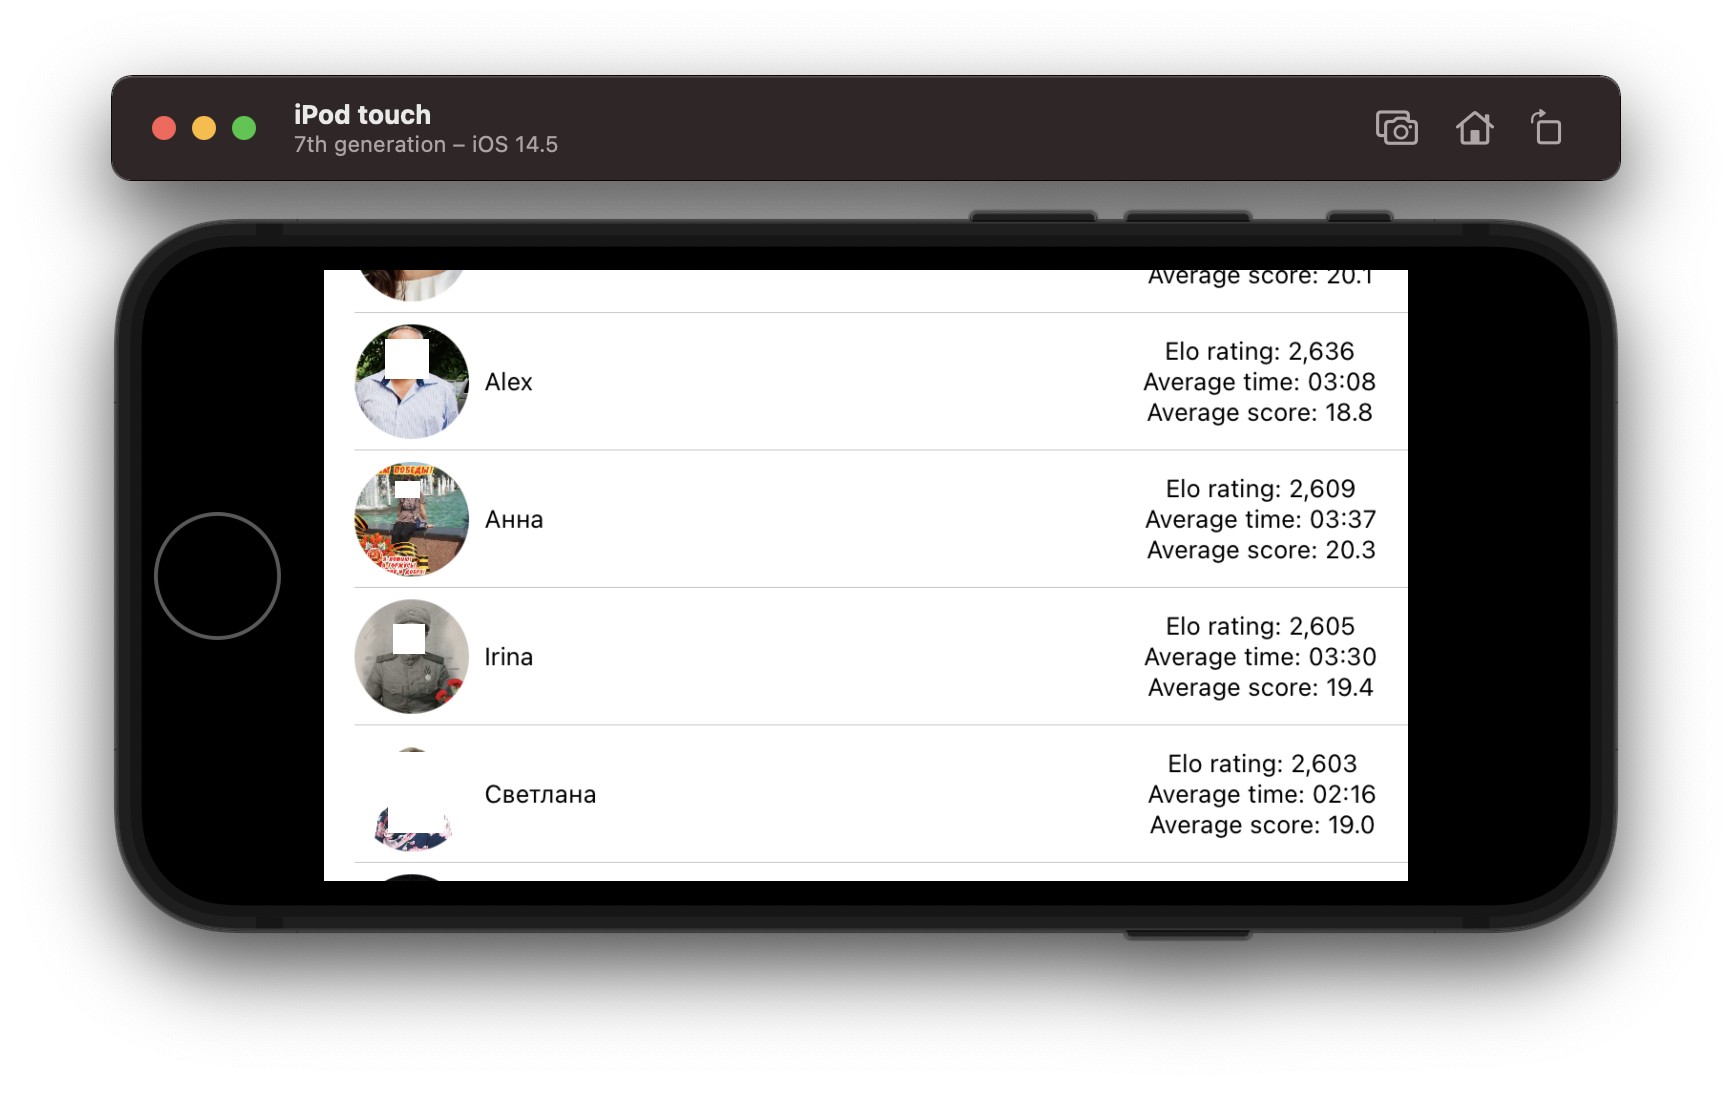
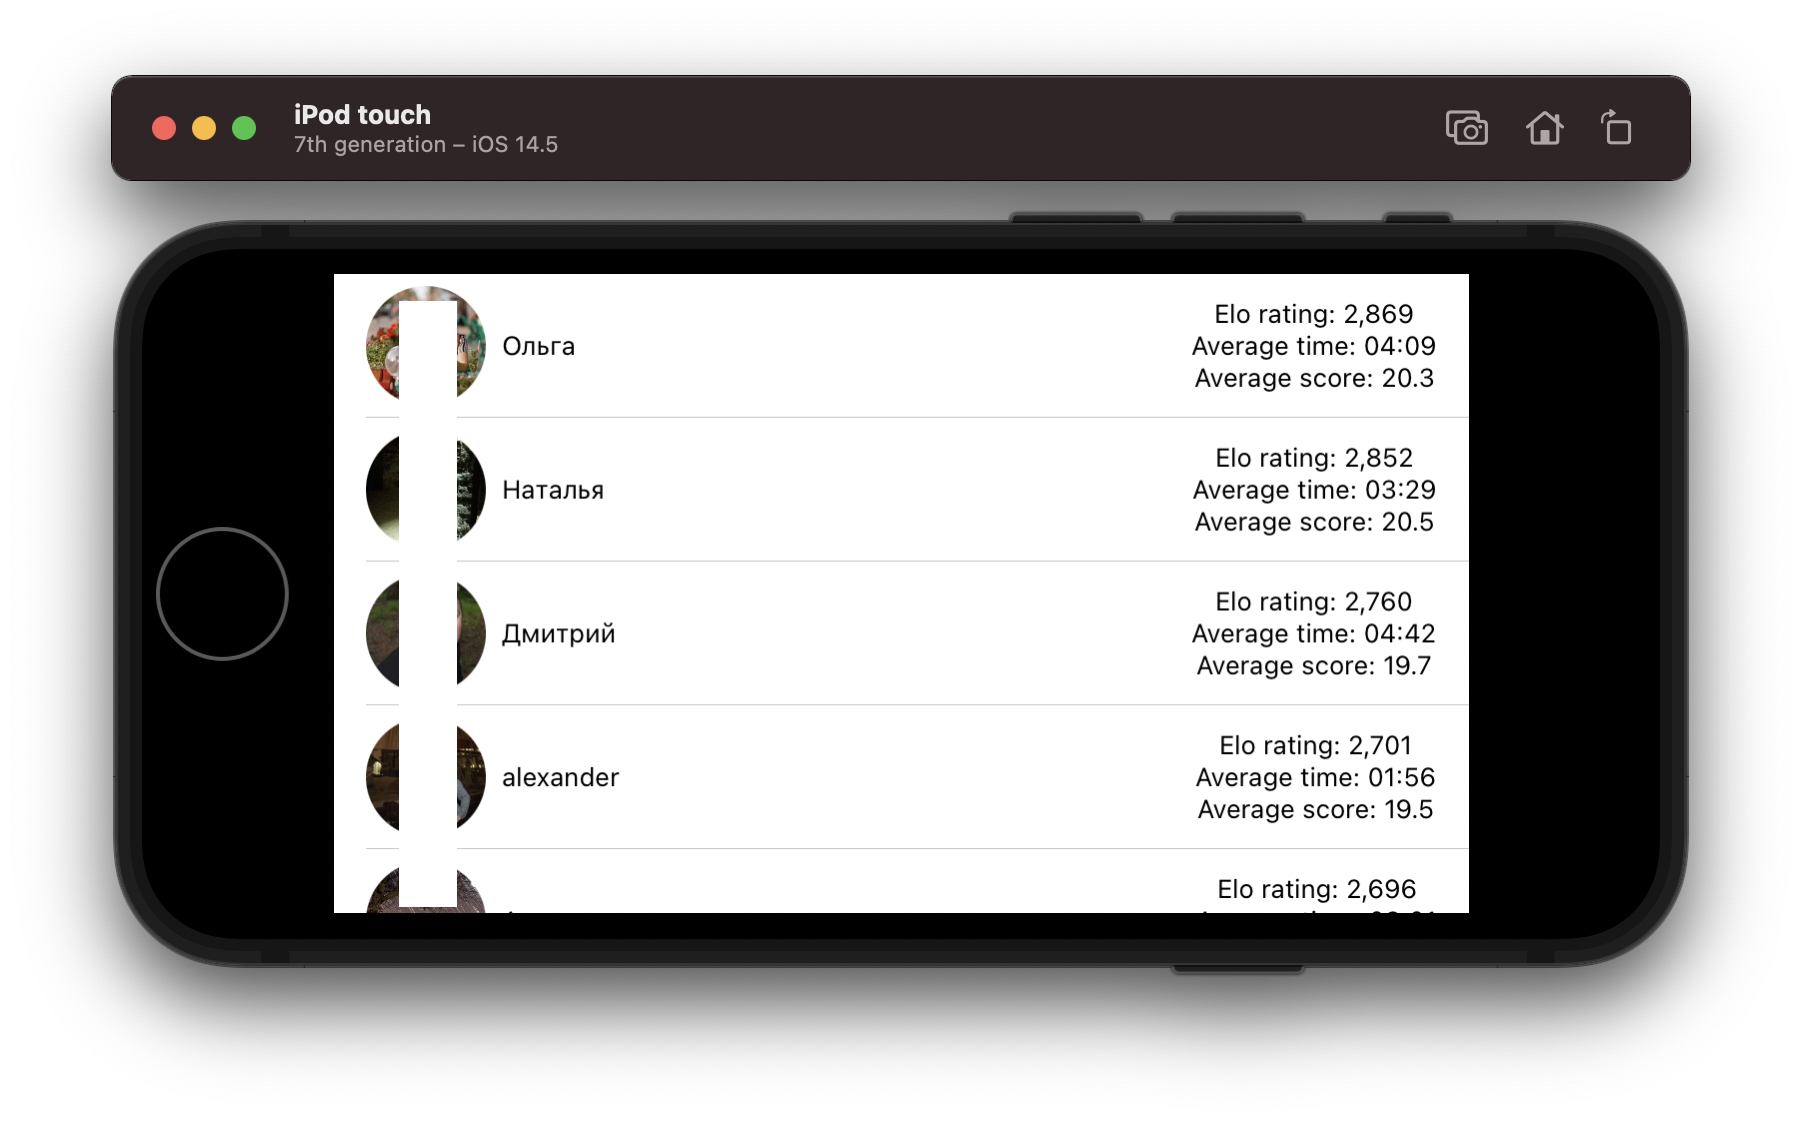
Add -com.apple.CoreData.ConcurrencyDebug 1 to command line args. Make uid unique and set merge policy to overwrite

diff --git a/FetchJsonEscapable/FetchJsonEscapable/Persistence.swift b/FetchJsonEscapable/FetchJsonEscapable/Persistence.swift
@@ -34,6 +34,8 @@ struct PersistenceController {
 
     init(inMemory: Bool = false) {
         container = NSPersistentContainer(name: "Tops")
+        container.viewContext.mergePolicy = NSMergePolicy.overwrite
+        container.viewContext.automaticallyMergesChangesFromParent = true
         if inMemory {
             container.persistentStoreDescriptions.first!.url = URL(fileURLWithPath: "/dev/null")
         }

diff --git a/FetchJsonEscapable/FetchJsonEscapable/Views/ContentView.swift b/FetchJsonEscapable/FetchJsonEscapable/Views/ContentView.swift
@@ -14,7 +14,7 @@ struct ContentView: View {
     @Environment(\.managedObjectContext) private var moc
     
     @FetchRequest(
-        sortDescriptors: [NSSortDescriptor(keyPath: \TopEntity.elo, ascending: true)],
+        sortDescriptors: [NSSortDescriptor(keyPath: \TopEntity.elo, ascending: false)],
         animation: .default)
     private var tops: FetchedResults<TopEntity>
     
